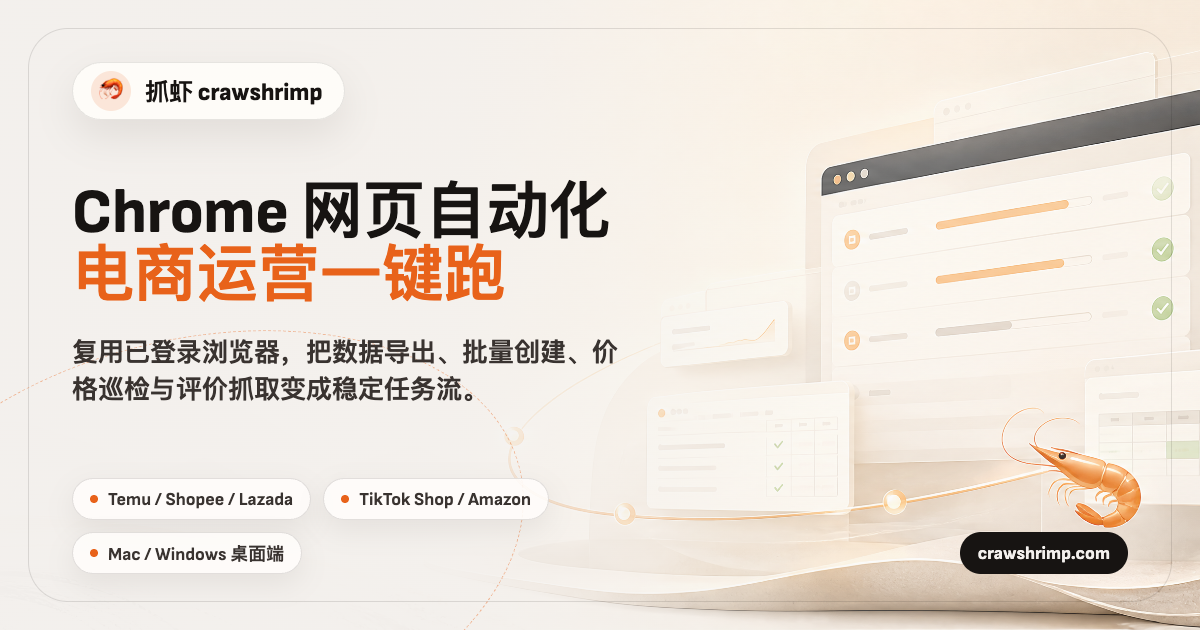
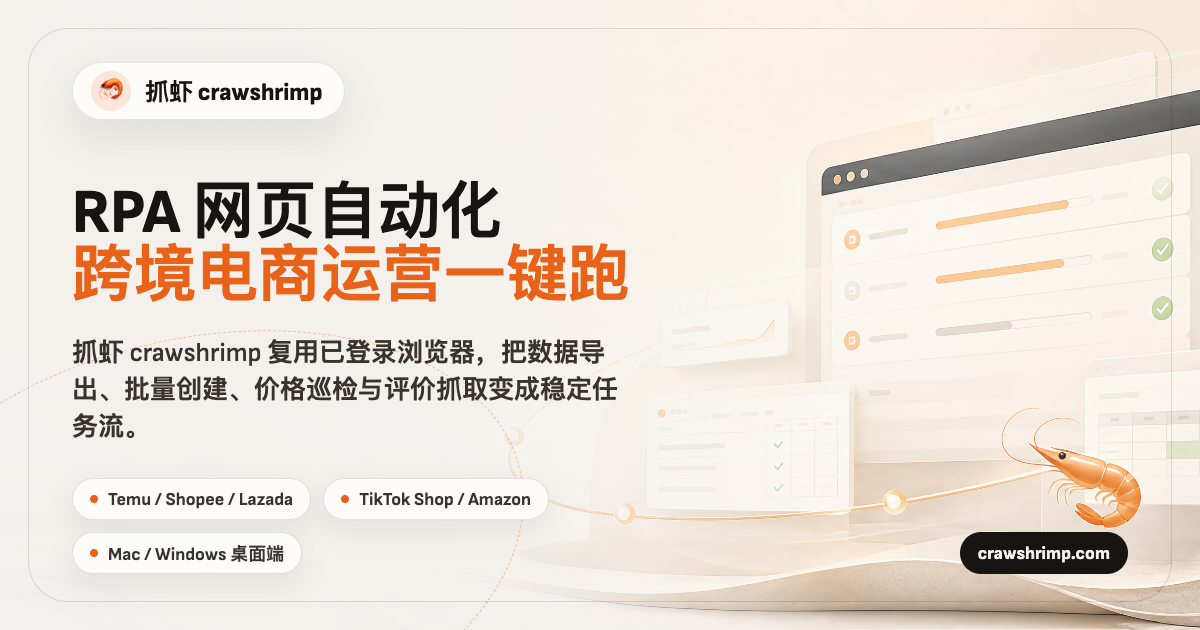
Strengthen SEO keywords

Changed region(s): [[0.0617, 0.2714, 0.5242, 0.4825], [0.0617, 0.5429, 0.5242, 0.6937]]

diff --git a/index.html b/index.html
@@ -3,8 +3,8 @@
 <head>
   <meta charset="UTF-8" />
   <meta name="viewport" content="width=device-width, initial-scale=1.0" />
-  <title>抓虾 crawshrimp｜Chrome 网页自动化工具与电商运营 RPA</title>
-  <meta name="description" content="抓虾 crawshrimp 是复用已登录 Chrome 的网页自动化工具，支持 Temu、Shopee、Lazada、SHEIN、京东、TikTok Shop、Amazon 等跨境电商运营自动化、数据导出、批量任务和价格巡检。" />
+  <title>抓虾 crawshrimp｜RPA 网页自动化工具与跨境电商运营助手</title>
+  <meta name="description" content="抓虾 crawshrimp 是面向跨境电商运营的 RPA 网页自动化工具，复用已登录 Chrome，支持 Temu、Shopee、Lazada、SHEIN、京东、TikTok Shop、Amazon 等后台的数据导出、批量任务和价格巡检。" />
   <meta name="robots" content="index,follow,max-image-preview:large" />
   <meta name="author" content="抓虾 crawshrimp" />
   <meta name="theme-color" content="#f3f0ed" />
@@ -17,16 +17,16 @@
   <meta property="og:locale" content="zh_CN" />
   <meta property="og:type" content="website" />
   <meta property="og:site_name" content="抓虾 crawshrimp" />
-  <meta property="og:title" content="抓虾 crawshrimp｜Chrome 网页自动化工具" />
-  <meta property="og:description" content="复用已登录 Chrome，把 Temu、Shopee、Lazada、SHEIN、京东、TikTok Shop、Amazon 等后台的导出、批量、巡检任务变成一键自动化。" />
+  <meta property="og:title" content="抓虾 crawshrimp｜RPA 网页自动化工具" />
+  <meta property="og:description" content="面向跨境电商运营的 RPA 网页自动化工具，复用已登录 Chrome，把 Temu、Shopee、Lazada、SHEIN、京东、TikTok Shop、Amazon 等后台任务变成一键自动化。" />
   <meta property="og:url" content="https://crawshrimp.com/" />
   <meta property="og:image" content="https://crawshrimp.com/og-image.png" />
   <meta property="og:image:width" content="1200" />
   <meta property="og:image:height" content="630" />
   <meta property="og:image:alt" content="抓虾 crawshrimp Chrome 网页自动化工具界面" />
   <meta name="twitter:card" content="summary_large_image" />
-  <meta name="twitter:title" content="抓虾 crawshrimp｜Chrome 网页自动化工具" />
-  <meta name="twitter:description" content="复用已登录 Chrome，让电商后台的数据导出、批量任务和价格巡检自动跑起来。" />
+  <meta name="twitter:title" content="抓虾 crawshrimp｜RPA 网页自动化工具" />
+  <meta name="twitter:description" content="抓虾 crawshrimp 面向跨境电商运营，复用已登录 Chrome，让网页自动化任务稳定跑起来。" />
   <meta name="twitter:image" content="https://crawshrimp.com/og-image.png" />
   <script type="application/ld+json">
   {
@@ -63,10 +63,11 @@
         "url": "https://crawshrimp.com/",
         "downloadUrl": "https://crawshrimp.com/download",
         "image": "https://crawshrimp.com/og-image.png",
-        "description": "抓虾 crawshrimp 是复用已登录 Chrome 的网页自动化工具，通过平台适配包执行跨境电商运营数据导出、批量创建、批量发送、价格巡检、商品评价抓取和素材批处理等重复网页任务。",
-        "keywords": "网页自动化工具,Chrome 自动化,RPA 替代方案,电商运营自动化,跨境电商自动化,Temu 运营助手,Shopee 运营助手,Lazada 批量优惠券,TikTok Shop 数据导出,Amazon Reviews 抓取,速卖通运营助手,Shopify 数据同步,网页数据导出",
+        "description": "抓虾 crawshrimp 是面向跨境电商运营的 RPA 网页自动化工具，通过平台适配包复用已登录 Chrome，执行数据导出、批量创建、批量发送、价格巡检、商品评价抓取和素材批处理等重复网页任务。",
+        "keywords": "抓虾,crawshrimp,RPA,网页自动化,跨境电商运营,RPA 网页自动化工具,Chrome 自动化,RPA 替代方案,电商运营自动化,跨境电商自动化,Temu 运营助手,Shopee 运营助手,Lazada 批量优惠券,TikTok Shop 数据导出,Amazon Reviews 抓取,速卖通运营助手,Shopify 数据同步,网页数据导出",
         "featureList": [
-          "复用已登录 Chrome 浏览器",
+          "抓虾 crawshrimp 复用已登录 Chrome 浏览器",
+          "RPA 网页自动化和跨境电商运营任务流",
           "Temu、Shopee、Lazada、SHEIN、京东、TikTok Shop、Amazon、速卖通、Shopify 等平台适配包",
           "电商后台数据导出和 Excel 落盘",
           "批量创建、填写、发送网页任务",
@@ -99,8 +100,8 @@
         "@type": "WebPage",
         "@id": "https://crawshrimp.com/#webpage",
         "url": "https://crawshrimp.com/",
-        "name": "抓虾 crawshrimp｜Chrome 网页自动化工具与电商运营 RPA",
-        "description": "抓虾 crawshrimp 是复用已登录 Chrome 的网页自动化工具，支持跨境电商运营自动化、网页数据导出、批量任务、商品评价抓取和价格巡检。",
+        "name": "抓虾 crawshrimp｜RPA 网页自动化工具与跨境电商运营助手",
+        "description": "抓虾 crawshrimp 是面向跨境电商运营的 RPA 网页自动化工具，支持网页数据导出、批量任务、商品评价抓取和价格巡检。",
         "inLanguage": "zh-CN",
         "isPartOf": {
           "@id": "https://crawshrimp.com/#website"
@@ -108,6 +109,37 @@
         "about": {
           "@id": "https://crawshrimp.com/#software"
         }
+      },
+      {
+        "@type": "FAQPage",
+        "@id": "https://crawshrimp.com/#faq",
+        "inLanguage": "zh-CN",
+        "mainEntity": [
+          {
+            "@type": "Question",
+            "name": "抓虾 crawshrimp 是什么？",
+            "acceptedAnswer": {
+              "@type": "Answer",
+              "text": "抓虾 crawshrimp 是面向跨境电商运营的 RPA 网页自动化工具，复用已登录 Chrome，把后台里的数据导出、批量创建、价格巡检和评价抓取整理成可重复执行的任务。"
+            }
+          },
+          {
+            "@type": "Question",
+            "name": "抓虾和传统 RPA 有什么不同？",
+            "acceptedAnswer": {
+              "@type": "Answer",
+              "text": "抓虾更像轻量网页自动化底座，不要求重新登录或重新配置账号环境，而是通过适配包在用户自己的 Chrome 里执行跨境电商运营流程。"
+            }
+          },
+          {
+            "@type": "Question",
+            "name": "抓虾适合哪些跨境电商运营任务？",
+            "acceptedAnswer": {
+              "@type": "Answer",
+              "text": "抓虾适合 Temu、Shopee、Lazada、SHEIN、TikTok Shop、Amazon、速卖通、Shopify 等后台里的数据导出、批量营销、价格巡检、商品评价抓取和素材处理。"
+            }
+          }
+        ]
       }
     ]
   }
@@ -1083,6 +1115,43 @@
       font-weight: 820;
     }
 
+    .faq-section {
+      width: min(var(--content), calc(100% - 48px));
+      margin: 0 auto;
+      padding: clamp(72px, 10vw, 112px) 0;
+    }
+
+    .faq-grid {
+      display: grid;
+      grid-template-columns: minmax(280px, .55fr) minmax(0, 1fr);
+      gap: clamp(28px, 5vw, 62px);
+      align-items: start;
+    }
+
+    .faq-list {
+      display: grid;
+      gap: 14px;
+    }
+
+    .faq-item {
+      padding: 24px 26px;
+      border: 1px solid var(--line);
+      border-radius: 30px;
+      background: rgba(255, 253, 250, .72);
+    }
+
+    .faq-item h3 {
+      margin-bottom: 10px;
+      font-size: 22px;
+      line-height: 1.15;
+    }
+
+    .faq-item p {
+      color: var(--muted);
+      font-size: 15px;
+      line-height: 1.58;
+    }
+
     .cta-band {
       width: min(calc(var(--content) + 80px), calc(100% - 32px));
       margin: 0 auto clamp(32px, 7vw, 80px);
@@ -1267,6 +1336,7 @@
       .hero-grid,
       .section-header,
       .automation-rail,
+      .faq-grid,
       .platform-layout,
       .footer-top {
         grid-template-columns: 1fr;
@@ -1390,6 +1460,16 @@
         gap: 16px;
       }
 
+      .faq-section {
+        width: min(100% - 28px, var(--content));
+        padding: 68px 0;
+      }
+
+      .faq-item {
+        border-radius: 24px;
+        padding: 22px;
+      }
+
       .platform-list {
         grid-template-columns: 1fr;
       }
@@ -1439,16 +1519,16 @@
     <section class="hero" aria-labelledby="hero-title">
       <div class="hero-grid">
         <div>
-          <div class="eyebrow">通用网页自动化底座</div>
-          <h1 id="hero-title">抓虾 crawshrimp <span>Chrome 网页自动化底座</span></h1>
-          <p class="hero-copy">复用你已登录的 Chrome，登录态、Cookie、插件全保留。装上对应网站的适配包，电商运营里的数据导出、批量创建、价格巡检、评价抓取和素材处理就能一键跑完。</p>
+          <div class="eyebrow">RPA 网页自动化底座</div>
+          <h1 id="hero-title">抓虾 crawshrimp <span>跨境电商运营 RPA</span></h1>
+          <p class="hero-copy">抓虾 crawshrimp 复用你已登录的 Chrome，登录态、Cookie、插件全保留。装上对应网站的适配包，跨境电商运营里的数据导出、批量创建、价格巡检、评价抓取和素材处理就能一键跑完。</p>
           <div class="hero-actions">
             <a class="btn btn-primary" href="/download.html">免费下载 →</a>
             <a class="btn btn-secondary" href="https://github.com/howtimeschange/crawshrimp-free" target="_blank" rel="noreferrer">查看 GitHub</a>
           </div>
           <div class="signal-row" aria-label="产品特性">
             <span>Mac / Windows 双端</span>
-            <span>免重新登录</span>
+            <span>RPA 网页自动化</span>
             <span>跨境电商运营自动化</span>
           </div>
         </div>
@@ -1508,16 +1588,16 @@
     <section class="section" id="workflow" aria-labelledby="workflow-title">
       <div class="section-header">
         <div>
-          <div class="eyebrow">网页任务的最短路径</div>
-          <h2 class="section-title" id="workflow-title">不用重写爬虫，<em>沿着你的真实浏览器操作</em></h2>
+          <div class="eyebrow">网页自动化的最短路径</div>
+          <h2 class="section-title" id="workflow-title">不用重写爬虫，也不用上重型 RPA，<em>沿着你的真实浏览器操作</em></h2>
         </div>
-        <p class="section-copy">抓虾不接管你的账号，也不要求你重新配置一套环境。它只把你原本每天重复点击的网页流程，收束成可以复用的 Chrome 自动化任务。</p>
+        <p class="section-copy">抓虾不接管你的账号，也不要求你重新配置一套环境。它只把跨境电商运营每天重复点击的网页流程，收束成可以复用的 Chrome 网页自动化任务。</p>
       </div>
 
       <div class="automation-rail">
         <div class="rail-lead">
           <h3>登录一次，后面的重复动作交给任务流。</h3>
-          <p>适合跨境电商运营、网页数据导出、批量创建、价格巡检、评价抓取和素材处理这类高频网页动作。你保持业务判断，抓虾负责耐心执行。</p>
+          <p>适合跨境电商运营、RPA 网页自动化、网页数据导出、批量创建、价格巡检、评价抓取和素材处理这类高频网页动作。你保持业务判断，抓虾负责耐心执行。</p>
         </div>
         <div class="rail-steps">
           <div class="step-pill">
@@ -1551,7 +1631,7 @@
           <div class="eyebrow">核心能力</div>
           <h2 class="section-title" id="features-title">把杂乱网页操作，整理成<em>可复用能力</em></h2>
         </div>
-        <p class="section-copy">从浏览器、适配包、数据导出到批量执行，每一步都服务于同一件事：把运营后台里的重复网页动作变成稳定、可复查的自动化流程。</p>
+        <p class="section-copy">从浏览器、适配包、数据导出到批量执行，每一步都服务于同一件事：把跨境电商运营后台里的重复网页动作变成稳定、可复查的 RPA 自动化流程。</p>
       </div>
 
       <div class="capabilities">
@@ -1625,7 +1705,7 @@
         <div>
           <div class="eyebrow">内置适配包</div>
           <h2 class="section-title" id="platforms-title">常用平台任务，装好就能跑。</h2>
-          <p class="section-copy" style="margin-top:22px;">内置适配包覆盖跨境电商运营、报表导出、批量营销、商品评价抓取、素材处理和价格巡检。你只需要登录对应后台，选择任务，抓虾会按流程执行并整理结果。</p>
+          <p class="section-copy" style="margin-top:22px;">抓虾 crawshrimp 的内置适配包覆盖跨境电商运营、报表导出、批量营销、商品评价抓取、素材处理和价格巡检。你只需要登录对应后台，选择任务，抓虾会按 RPA 网页自动化流程执行并整理结果。</p>
         </div>
 
         <div class="platform-list">
@@ -1783,7 +1863,7 @@
           <div class="eyebrow">定价</div>
           <h2 class="section-title" id="pricing-title">先免费试跑，确认能省时间再升级。</h2>
         </div>
-        <p class="section-copy">底座可以先下载体验。标准适配包适合常见运营流程，定制开发则面向更具体的业务后台和数据结构。</p>
+        <p class="section-copy">抓虾 crawshrimp 底座可以先下载体验。标准适配包适合常见跨境电商运营流程，定制开发则面向更具体的业务后台、网页自动化流程和数据结构。</p>
       </div>
 
       <div class="pricing-wrap">
@@ -1851,10 +1931,33 @@
       </div>
     </section>
 
+    <section class="faq-section" aria-labelledby="faq-title">
+      <div class="faq-grid">
+        <div>
+          <div class="eyebrow">常见问题</div>
+          <h2 class="section-title" id="faq-title">抓虾 crawshrimp 适合什么样的网页自动化？</h2>
+        </div>
+        <div class="faq-list">
+          <article class="faq-item">
+            <h3>抓虾 crawshrimp 是什么？</h3>
+            <p>抓虾 crawshrimp 是面向跨境电商运营的 RPA 网页自动化工具。它复用你已登录的 Chrome，把后台里的数据导出、批量创建、价格巡检和评价抓取整理成可重复执行的任务。</p>
+          </article>
+          <article class="faq-item">
+            <h3>抓虾和传统 RPA 有什么不同？</h3>
+            <p>传统 RPA 往往需要重新配置环境和流程。抓虾更轻，重点是通过平台适配包沿着真实浏览器执行网页自动化任务，减少重新登录、账号环境切换和人工盯流程的时间。</p>
+          </article>
+          <article class="faq-item">
+            <h3>跨境电商运营可以用抓虾做什么？</h3>
+            <p>抓虾适合 Temu、Shopee、Lazada、SHEIN、TikTok Shop、Amazon、速卖通、Shopify 等后台里的报表导出、批量营销、商品评价抓取、价格巡检和素材处理。</p>
+          </article>
+        </div>
+      </div>
+    </section>
+
     <section class="cta-band" aria-labelledby="cta-title">
       <div>
-        <h2 id="cta-title">让网页重复动作，从今天开始自动跑。</h2>
-        <p>下载免费版试试。等你确认这件事确实省时间，再决定是否升级或定制。</p>
+        <h2 id="cta-title">让跨境电商运营里的网页重复动作，从今天开始自动跑。</h2>
+        <p>下载抓虾 crawshrimp 免费版试试。等你确认这套 RPA 网页自动化确实省时间，再决定是否升级或定制。</p>
       </div>
       <a class="btn" href="/download.html">免费下载 →</a>
     </section>

diff --git a/download.html b/download.html
@@ -3,8 +3,8 @@
 <head>
   <meta charset="UTF-8" />
   <meta name="viewport" content="width=device-width, initial-scale=1.0" />
-  <title>抓虾下载｜Mac 与 Windows Chrome 网页自动化工具</title>
-  <meta name="description" content="下载抓虾 crawshrimp 桌面端，支持 macOS Apple Silicon、macOS Intel 和 Windows。复用已登录 Chrome，运行跨境电商运营自动化、网页数据导出、批量任务和价格巡检。" />
+  <title>抓虾 crawshrimp 下载｜RPA 网页自动化桌面端</title>
+  <meta name="description" content="下载抓虾 crawshrimp 桌面端，支持 macOS Apple Silicon、macOS Intel 和 Windows。复用已登录 Chrome，运行跨境电商运营 RPA、网页自动化、数据导出、批量任务和价格巡检。" />
   <meta name="robots" content="index,follow,max-image-preview:large" />
   <meta name="author" content="抓虾 crawshrimp" />
   <meta name="theme-color" content="#f3f0ed" />
@@ -18,16 +18,16 @@
   <meta property="og:locale" content="zh_CN" />
   <meta property="og:type" content="website" />
   <meta property="og:site_name" content="抓虾 crawshrimp" />
-  <meta property="og:title" content="抓虾下载｜Mac 与 Windows 网页自动化工具" />
-  <meta property="og:description" content="下载抓虾桌面端，复用已登录 Chrome，在 Mac 和 Windows 上运行跨境电商运营自动化、数据导出、批量任务和价格巡检。" />
+  <meta property="og:title" content="抓虾 crawshrimp 下载｜RPA 网页自动化桌面端" />
+  <meta property="og:description" content="下载抓虾桌面端，复用已登录 Chrome，在 Mac 和 Windows 上运行跨境电商运营 RPA、网页自动化、数据导出和批量任务。" />
   <meta property="og:url" content="https://crawshrimp.com/download" />
   <meta property="og:image" content="https://crawshrimp.com/og-image.png" />
   <meta property="og:image:width" content="1200" />
   <meta property="og:image:height" content="630" />
   <meta property="og:image:alt" content="抓虾 crawshrimp 桌面端下载页面" />
   <meta name="twitter:card" content="summary_large_image" />
-  <meta name="twitter:title" content="抓虾下载｜Mac 与 Windows 网页自动化工具" />
-  <meta name="twitter:description" content="下载抓虾桌面端，复用已登录 Chrome 运行跨境电商后台自动化任务。" />
+  <meta name="twitter:title" content="抓虾 crawshrimp 下载｜RPA 网页自动化桌面端" />
+  <meta name="twitter:description" content="下载抓虾 crawshrimp，用已登录 Chrome 运行跨境电商运营网页自动化任务。" />
   <meta name="twitter:image" content="https://crawshrimp.com/og-image.png" />
   <script type="application/ld+json">
   {
@@ -49,10 +49,11 @@
         "operatingSystem": "macOS, Windows",
         "url": "https://crawshrimp.com/",
         "downloadUrl": "https://crawshrimp.com/download",
-        "description": "抓虾 crawshrimp 桌面端通过已登录 Chrome 运行网页自动化任务，支持跨境电商运营数据导出、批量填写、批量发送、商品评价抓取和价格巡检。",
+        "description": "抓虾 crawshrimp 桌面端通过已登录 Chrome 运行 RPA 网页自动化任务，支持跨境电商运营数据导出、批量填写、批量发送、商品评价抓取和价格巡检。",
         "featureList": [
           "macOS Apple Silicon、macOS Intel 和 Windows 桌面端",
-          "复用已登录 Chrome 浏览器",
+          "抓虾 crawshrimp 复用已登录 Chrome 浏览器",
+          "RPA 网页自动化和跨境电商运营任务流",
           "Temu、Shopee、Lazada、SHEIN、京东、TikTok Shop 等平台适配包",
           "网页数据导出、Excel 落盘和批量任务执行"
         ],
@@ -71,8 +72,8 @@
         "@type": "WebPage",
         "@id": "https://crawshrimp.com/download#webpage",
         "url": "https://crawshrimp.com/download",
-        "name": "抓虾下载｜Mac 与 Windows Chrome 网页自动化工具",
-        "description": "下载抓虾 crawshrimp 桌面端，支持 macOS Apple Silicon、macOS Intel 和 Windows，用于 Chrome 网页自动化和跨境电商运营自动化。",
+        "name": "抓虾 crawshrimp 下载｜RPA 网页自动化桌面端",
+        "description": "下载抓虾 crawshrimp 桌面端，支持 macOS Apple Silicon、macOS Intel 和 Windows，用于 RPA 网页自动化和跨境电商运营自动化。",
         "inLanguage": "zh-CN",
         "about": {
           "@id": "https://crawshrimp.com/#software"
@@ -595,8 +596,8 @@
       <section class="hero" aria-labelledby="download-title">
         <div>
           <div class="eyebrow">Desktop download</div>
-          <h1 id="download-title">下载抓虾 <span>Chrome 自动化桌面端</span></h1>
-          <p class="subtitle">抓虾会自动推荐适合你电脑的 Mac 或 Windows 版本。下载安装后无需手动配置 Python / Node，用已登录的 Chrome 打开目标后台，就可以运行跨境电商运营自动化任务。</p>
+          <h1 id="download-title">下载抓虾 crawshrimp <span>RPA 网页自动化桌面端</span></h1>
+          <p class="subtitle">抓虾会自动推荐适合你电脑的 Mac 或 Windows 版本。下载安装后无需手动配置 Python / Node，用已登录的 Chrome 打开目标后台，就可以运行跨境电商运营网页自动化任务。</p>
         </div>
 
         <div class="release-card" id="autoDownload">
